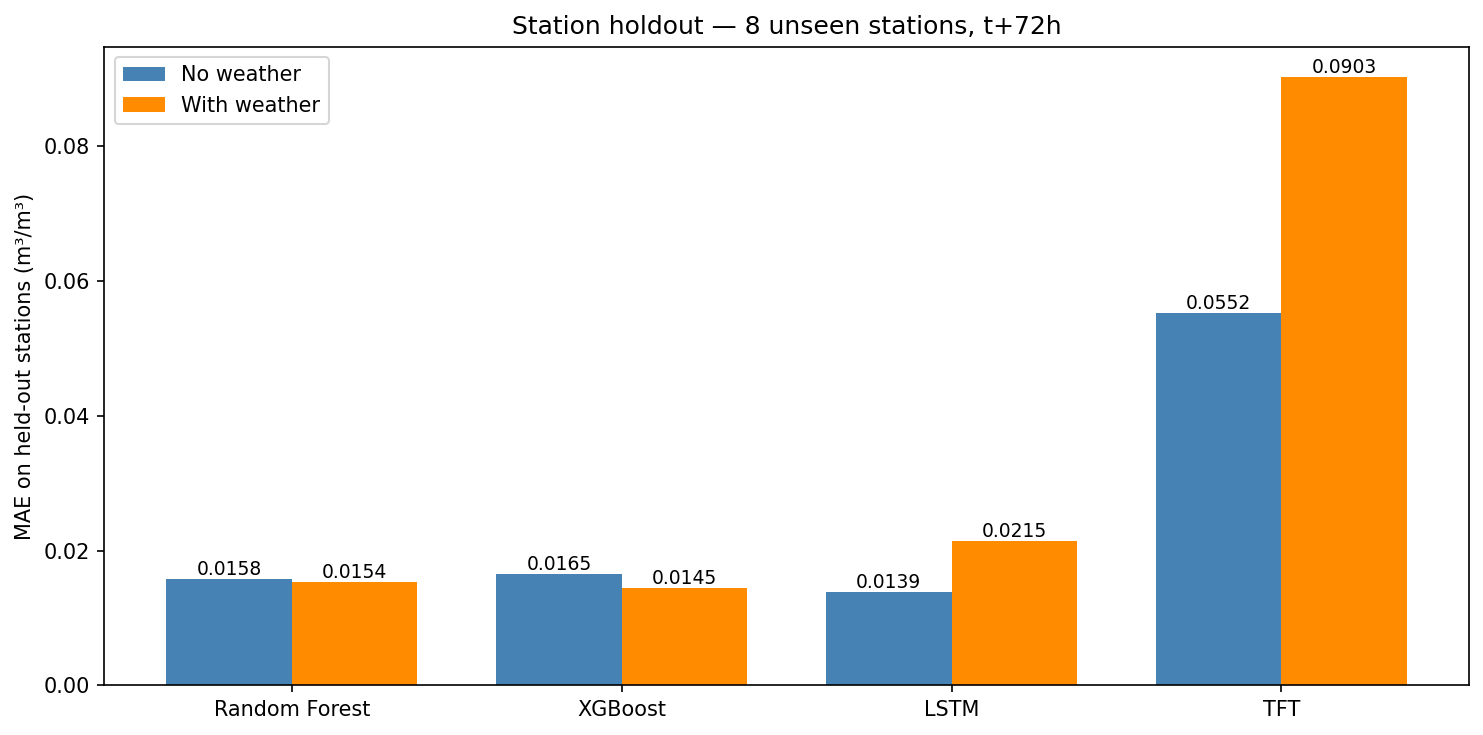
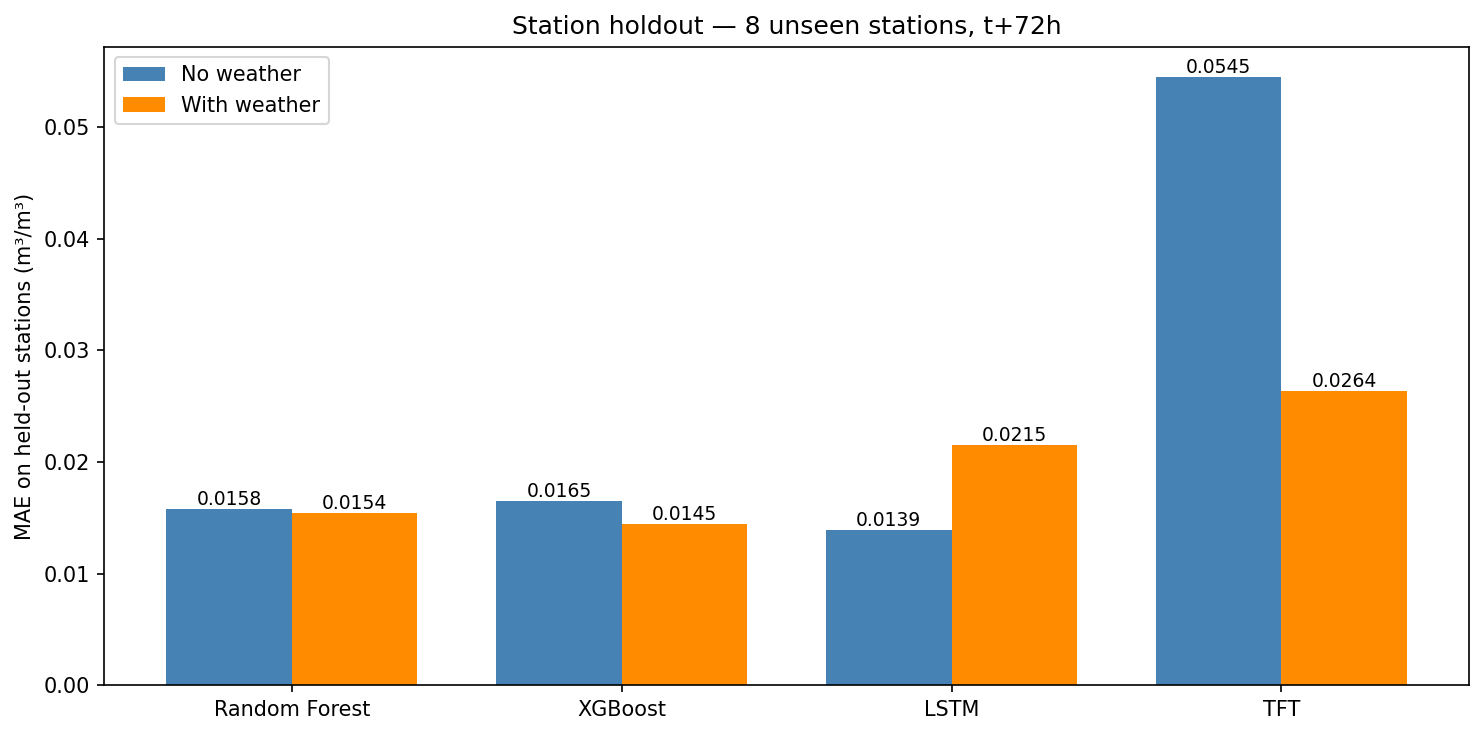
Fix TFT cross-station generalisation with static-encoder dropout.
Adds a local TFT override with one Dropout(0.2) inside the static encoder
and one after the LSTM. The v1 TFT failed catastrophically on station
holdout (R² -0.59 with weather) because the static encoder memorised
training-station coordinates; a targeted dropout there restores R² to
0.87 without changing any other component. Also adds --models / --into
flags so the TFT can be rerun and merged into an existing test folder
without retraining the other three models.

diff --git a/scripts/run_station_holdout.py b/scripts/run_station_holdout.py
@@ -46,10 +46,72 @@ from prepare import (
 from config import THRESHOLD, XGB_PARAMS
 from xgboost import XGBRegressor
 
-# Reuse the exact network definitions from the main experiment so the
-# architectures are identical and only the split differs.
-sys.path.insert(0, os.path.dirname(__file__))
-from run_experiment import _build_tft, _build_lstm_dual
+# Both model builders are inlined here. Importing from run_experiment.py would
+# trigger that script's module-level argparse and break our CLI.
+
+
+def _build_lstm_dual(seq_len, n_features, future_steps, n_future_wx):
+    """LSTM with past sequence + oracle future weather (matches run_experiment.py)."""
+    from tensorflow.keras import layers
+    seq_in = keras.Input(shape=(seq_len, n_features), name='sequence')
+    fut_in = keras.Input(shape=(future_steps, n_future_wx), name='future_weather')
+    x = layers.LSTM(64, return_sequences=True)(seq_in)
+    x = layers.Dropout(0.2)(x)
+    x = layers.LSTM(32)(x)
+    x = layers.Dropout(0.2)(x)
+    fw = layers.Flatten()(fut_in)
+    fw = layers.Dense(32, activation='relu')(fw)
+    x = layers.Concatenate()([x, fw])
+    x = layers.Dense(16, activation='relu')(x)
+    out = layers.Dense(1)(x)
+    return keras.Model([seq_in, fut_in], out)
+
+
+def _build_tft(seq_len, n_features, n_static, future_steps=None, n_future_wx=None):
+    """TFT v3 — minimal targeted regularisation.
+
+    v2 over-dropped (6 layers); the model couldn't learn. v3 keeps only two
+    dropouts, placed where station-overfit actually happens:
+      • Dropout(0.2) inside the static encoder — the dominant failure mode
+        for cross-station generalisation (static feats act as station IDs).
+      • Dropout(0.2) after the LSTM — regularises the temporal representation
+        before it reaches attention.
+    Everything else matches the original _build_tft from run_experiment.py.
+    """
+    from tensorflow.keras import layers
+    seq_in = keras.Input(shape=(seq_len, n_features), name='sequence')
+    sta_in = keras.Input(shape=(n_static,), name='static')
+    fut_in = None
+    if future_steps is not None and n_future_wx:
+        fut_in = keras.Input(shape=(future_steps, n_future_wx), name='future_weather')
+
+    s = layers.Dense(16, activation='elu')(sta_in)
+    s = layers.Dropout(0.2)(s)
+    s = layers.Dense(16)(s)
+    s_exp = layers.RepeatVector(seq_len)(s)
+    x = layers.Concatenate(axis=-1)([seq_in, s_exp])
+
+    x = layers.LSTM(64, return_sequences=True)(x)
+    x = layers.Dropout(0.2)(x)
+
+    a = layers.MultiHeadAttention(num_heads=4, key_dim=16)(x, x)
+    g = layers.Dense(64, activation='sigmoid')(a)
+    x = layers.Add()([layers.Multiply()([g, a]), x])
+    x = layers.LayerNormalization()(x)
+
+    x = layers.Lambda(lambda t: t[:, -1, :])(x)
+
+    if fut_in is not None:
+        fw = layers.Flatten()(fut_in)
+        fw = layers.Dense(16, activation='elu')(fw)
+        fw = layers.LayerNormalization()(fw)
+        x = layers.Concatenate()([x, fw])
+
+    x = layers.Dense(16, activation='relu')(x)
+    out = layers.Dense(1)(x)
+
+    inputs = [seq_in, sta_in] if fut_in is None else [seq_in, fut_in, sta_in]
+    return keras.Model(inputs=inputs, outputs=out)
 
 HORIZON = 72
 N_HOLDOUT = 8
@@ -315,7 +377,7 @@ def run_tft(stations, holdout, with_weather):
                 keras.callbacks.ReduceLROnPlateau(monitor='val_loss', factor=0.5,
                                                   patience=2, min_lr=1e-6, verbose=0),
             ],
-            verbose=0,
+            verbose=1,
         )
         pred = model.predict([X_te_n, fut_te_n, stat_te_n], verbose=0).flatten()
     else:
@@ -331,7 +393,7 @@ def run_tft(stations, holdout, with_weather):
                 keras.callbacks.ReduceLROnPlateau(monitor='val_loss', factor=0.5,
                                                   patience=2, min_lr=1e-6, verbose=0),
             ],
-            verbose=0,
+            verbose=1,
         )
         pred = model.predict([X_te_n, stat_te_n], verbose=0).flatten()
 
@@ -355,12 +417,26 @@ def _next_test_name():
 def main():
     ap = argparse.ArgumentParser()
     ap.add_argument('name', nargs='?', default=None)
+    ap.add_argument('--models', default='all',
+                    help='Comma-separated subset: rf,xgb,lstm,tft. Default: all.')
+    ap.add_argument('--into', default=None,
+                    help='Existing test folder to merge rerun results into '
+                         '(e.g. "test 17 - station holdout"). Required if --models is a subset.')
     args = ap.parse_args()
 
-    run_name = args.name or _next_test_name()
+    requested = {m.strip().lower() for m in args.models.split(',')} if args.models != 'all' \
+        else {'rf', 'xgb', 'lstm', 'tft'}
+    subset_run = requested != {'rf', 'xgb', 'lstm', 'tft'}
+
+    if subset_run and not args.into:
+        raise SystemExit('--into is required when running a subset of models')
+
+    run_name = args.into if subset_run else (args.name or _next_test_name())
     out_dir = os.path.join(IMAGES_ROOT, run_name)
     os.makedirs(out_dir, exist_ok=True)
-    print(f'\n{"="*60}\nRun: {run_name}\nOutput: images/{run_name}/\n{"="*60}\n')
+    print(f'\n{"="*60}\nRun: {run_name}'
+          f'{"  (subset rerun: " + ",".join(sorted(requested)) + ")" if subset_run else ""}'
+          f'\nOutput: images/{run_name}/\n{"="*60}\n')
 
     print('Loading stations (with weather, used for both configs)...')
     stations = load_all_stations(with_weather=True)
@@ -385,27 +461,35 @@ def main():
     all_metrics = []
     all_per_station = []
 
+    run_tabular_flag = any(m in requested for m in ('rf', 'xgb'))
+    rf_xgb_filter = {m for m in ('rf', 'xgb') if m in requested}
+
     for with_weather in (False, True):
         tag = 'with weather' if with_weather else 'no weather'
         print(f'\n{"="*60}\nCONFIG: {tag}\n{"="*60}')
 
-        print(f'\n  Tabular models...')
-        tabular = run_tabular(stations, holdout, with_weather)
-        gc.collect()
+        results = {}
 
-        print(f'\n  LSTM...')
-        y_l, p_l, k_l = run_lstm(stations, holdout, with_weather)
-        gc.collect()
+        if run_tabular_flag:
+            print(f'\n  Tabular models...')
+            tabular = run_tabular(stations, holdout, with_weather)
+            gc.collect()
+            if 'rf' in rf_xgb_filter:
+                results['Random Forest'] = tabular['Random Forest']
+            if 'xgb' in rf_xgb_filter:
+                results['XGBoost'] = tabular['XGBoost']
 
-        print(f'\n  TFT...')
-        y_t, p_t, k_t = run_tft(stations, holdout, with_weather)
-        gc.collect()
+        if 'lstm' in requested:
+            print(f'\n  LSTM...')
+            y_l, p_l, k_l = run_lstm(stations, holdout, with_weather)
+            gc.collect()
+            results['LSTM'] = (y_l, p_l, k_l)
 
-        results = {
-            **tabular,
-            'LSTM': (y_l, p_l, k_l),
-            'TFT':  (y_t, p_t, k_t),
-        }
+        if 'tft' in requested:
+            print(f'\n  TFT...')
+            y_t, p_t, k_t = run_tft(stations, holdout, with_weather)
+            gc.collect()
+            results['TFT'] = (y_t, p_t, k_t)
 
         for name, (yt, yp, kk) in results.items():
             m = _regression_metrics(yt, yp)
@@ -423,10 +507,26 @@ def main():
             all_per_station.append(ps)
 
     metrics_df = pd.DataFrame(all_metrics)
-    metrics_df.to_csv(os.path.join(out_dir, 'metrics.csv'), index=False)
-
     per_station_df = pd.concat(all_per_station, ignore_index=True)
-    per_station_df.to_csv(os.path.join(out_dir, 'per_station_metrics.csv'), index=False)
+
+    metrics_path = os.path.join(out_dir, 'metrics.csv')
+    per_station_path = os.path.join(out_dir, 'per_station_metrics.csv')
+
+    if subset_run and os.path.exists(metrics_path):
+        # Merge: drop existing rows for the (Model × Weather) pairs we just ran,
+        # then append the new ones. Keeps numbers from models we didn't rerun.
+        existing = pd.read_csv(metrics_path)
+        ran_pairs = metrics_df[['Model', 'Weather']].apply(tuple, axis=1).tolist()
+        keep = ~existing[['Model', 'Weather']].apply(tuple, axis=1).isin(ran_pairs)
+        metrics_df = pd.concat([existing[keep], metrics_df], ignore_index=True)
+
+        if os.path.exists(per_station_path):
+            existing_ps = pd.read_csv(per_station_path)
+            keep_ps = ~existing_ps[['Model', 'Weather']].apply(tuple, axis=1).isin(ran_pairs)
+            per_station_df = pd.concat([existing_ps[keep_ps], per_station_df], ignore_index=True)
+
+    metrics_df.to_csv(metrics_path, index=False)
+    per_station_df.to_csv(per_station_path, index=False)
 
     # Summary plot: MAE per model, with vs without weather.
     fig, ax = plt.subplots(figsize=(10, 5))
